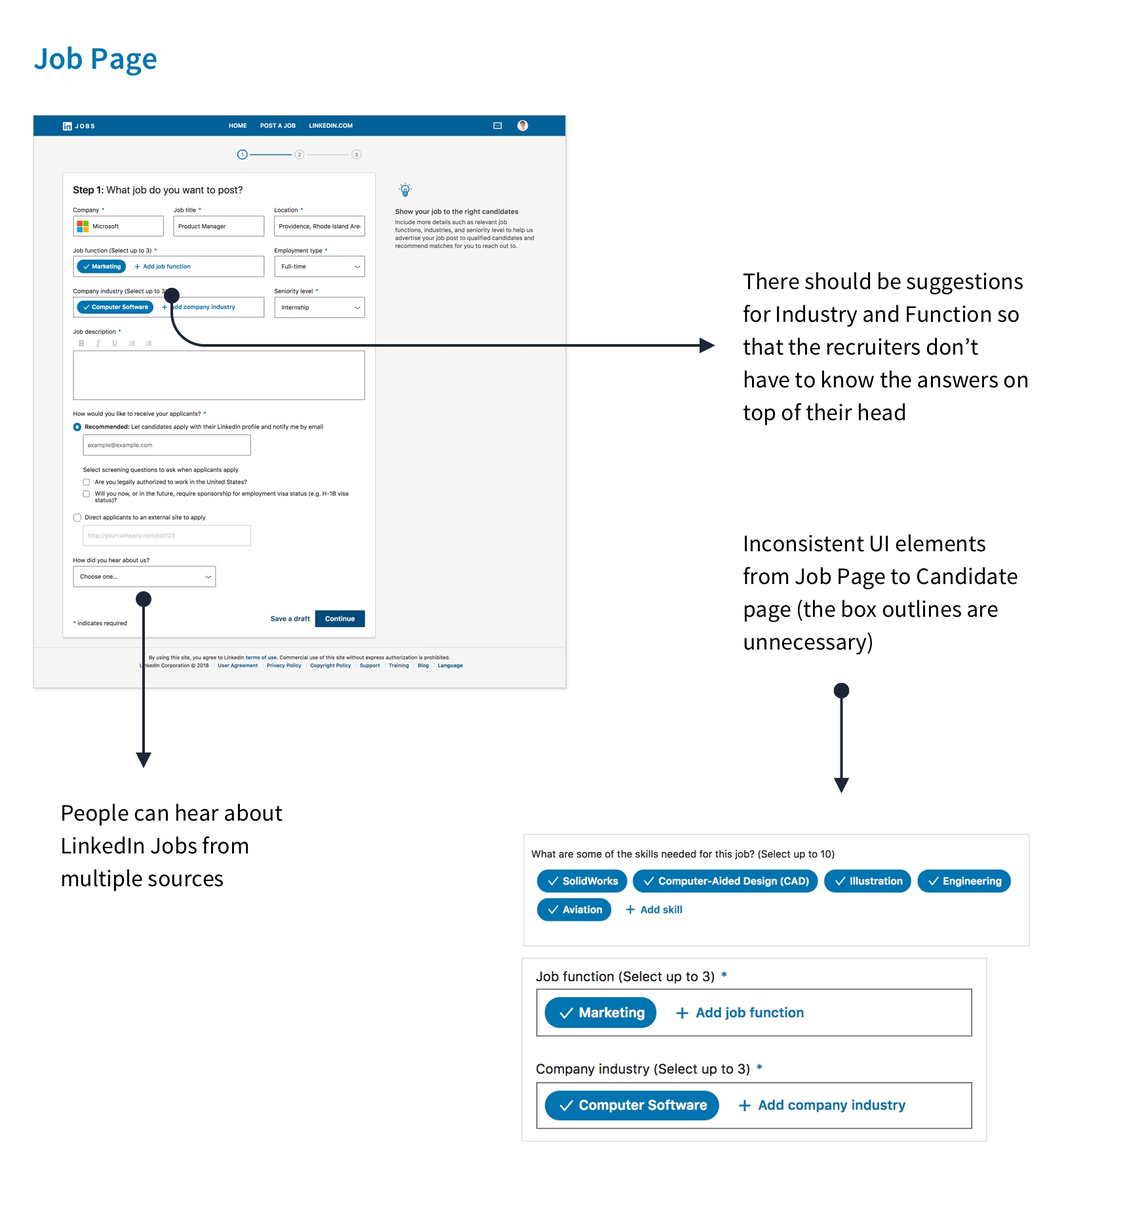
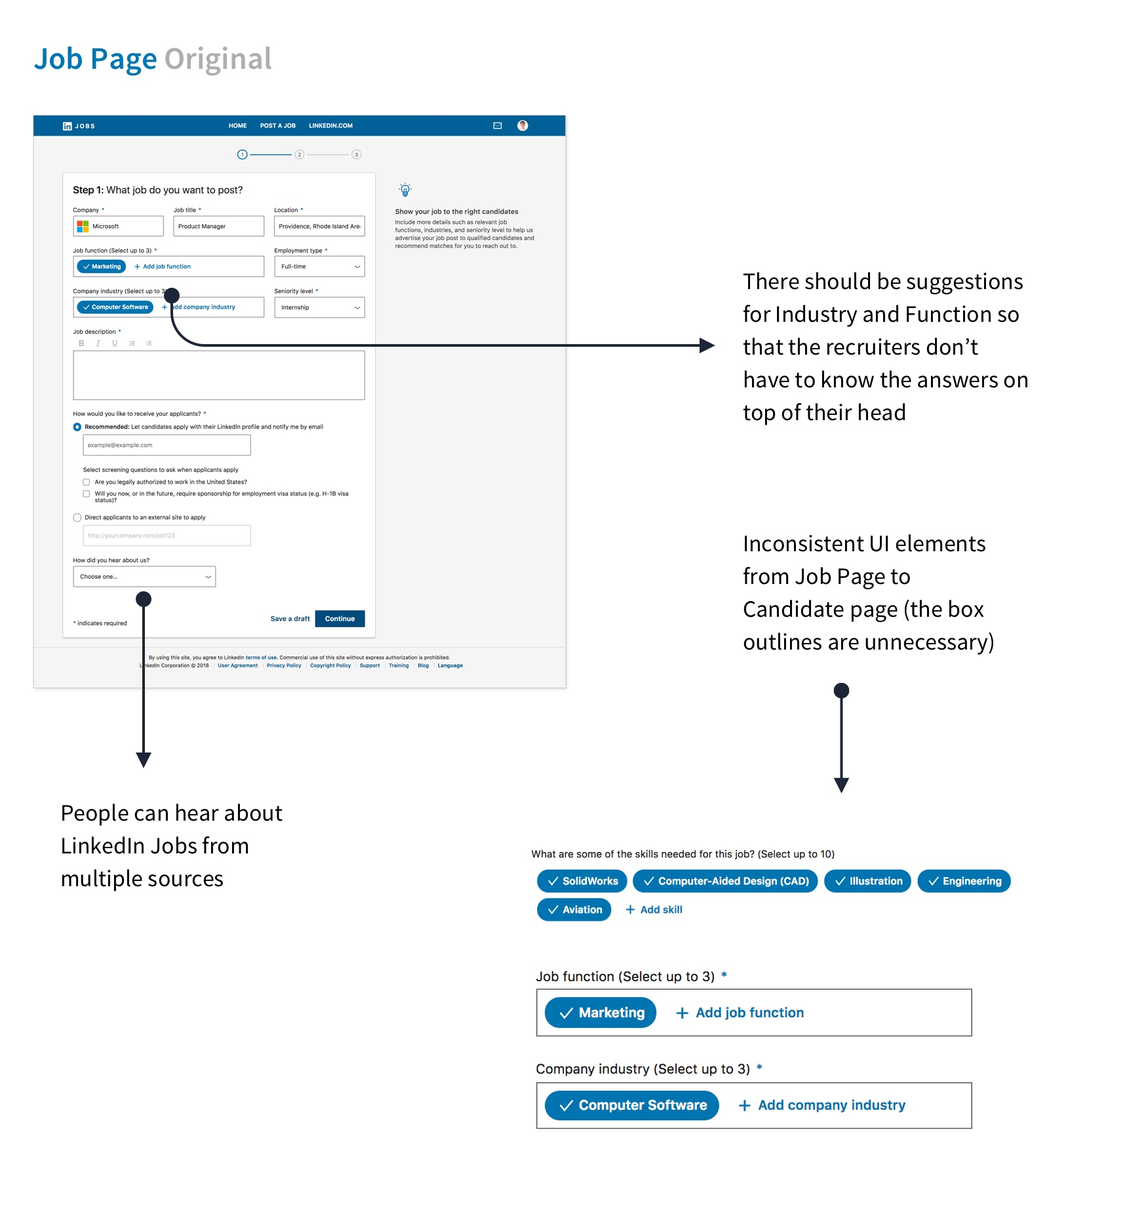
linkedindone

Changed region(s): [[0.6476, 0.4633, 0.8943, 0.525], [0.1542, 0.0309, 0.2467, 0.0618]]

diff --git a/linkedin.html b/linkedin.html
@@ -134,13 +134,13 @@
 
 	<p style="font-size: 20px; text-align: center;"><b>Goals</b> </p>
 
-	<p>Before diving into the research process, I spent some time setting goals I want to achieve in this one week design challenge: </p>
+	<p>Before diving into the research process, I spent some time setting out goals that I want to achieve in this one week design challenge: </p>
 
 	<ul>
 		<li>Understand the passive and active applicant’s thought process when it comes to job seeking  </li>
-		<li>Identify main competitors and how LinkedIn could leverage its existing features to differentiate itself from the market </li>
+		<li>Identify main competitors and how LinkedIn could leverage its existing features to differentiate itself from other job boards </li>
 		<li>Make the job posting experience more inclusive for smaller companies or new recruiters that don’t necessarily have much experience in recruiting</li>
-		<li>Update the UI of the job posting experience to match the current LinkedIn’s general interface </li>
+		<li>Update the UI of the job posting experience to match the current LinkedIn’s interface </li>
 		<li>Deliver a thoughtful and polished redesign for LinkedIn’s job posting experience </li>
 	</ul>
 
@@ -152,11 +152,9 @@
 	<p style="font-size: 20px; text-align: center;"><b>Online Research</b> </p>
 
 	
-	<p>For my first step, I want to break down the prompt to truly understand the end goal of this assignment. I did a walkthrough of the current job posting experience on LinkedIn and various job boards several times to have a grasp of what the experience is generally like. </p>
+	<p>For my first step, I did walkthroughs of the current job posting experience on LinkedIn and various job boards to have a grasp of what the experience is generally like. Understanding the target audience is essential for any design projects. In this case, even though the users for the redesign are recruiters, the target audience that we want to attract would be the candidates/job seekers. So in order to help the recruiters attract and recruit more relevant candidates, I want to understand what a potential candidate’s thought process wwould be like when they look for jobs.  </p>
 
-	<p>Understanding the target audience is essential for this redesign. In this case, even though the redesign users are recruiters, the target audience that we want to attract would be the candidates/job seekers. So in order to help the recruiters attract and recruit relevant candidates, I want to understand what a potential candidate’s thought process is like when they look for jobs.  </p>
-
-	<p>I started my research process with gathering information and statistics for recruiting from various sources. The most helpful sources for understanding recruiting and candidates are from LinkedIn itself. The four documents that I used are: </p>
+	<p>I started my research process with gathering information and statistics about recruiting from various sources. The most helpful sources for understanding recruiting methods and candidates are from LinkedIn themselves. The four documents that I came across were: </p>
 
 	<p>
 	<a href="https://business.linkedin.com/content/dam/business/talent-solutions/global/en_us/c/pdfs/Ultimate-List-of-Hiring-Stats-v02.04.pdf" target="_blank">The Ultimate Hiring Statistics </a><br>
@@ -165,16 +163,16 @@
 	<a href="https://business.linkedin.com/talent-solutions/recruitment-tool-reviews#all" target="_blank">Case studies from LinkedIn Talent Solutions</a>
 	</p>
 
-	<p>Through these documents, as well as various online sources, I had a glimpse into how recruiting can be done effectively, as well as the active job seeker’s thought process going through job boards. </p>
+	<p>Through these documents and various online sources, I had a glimpse into how recruiting can be done effectively, as well as a general idea of an active job seeker’s thought process. </p>
 
 	
 
 	
 	<p style="font-size: 20px; text-align: center;"><b>User Research Survey</b> </p>
 
-	<p> To further confirm my fingdings from online research, I wanted to get the answers to my questions from actual people I know around me. I sent out a survey to twenty people, anyone from students to active professionals in order to really learn how they approach the job seeking process.</p>
+	<p>To further confirm and expand my fingdings from online research, I wanted to get more information from actual people I know around me. I sent out a survey to twenty people, anyone from students to active professionals in order to really learn how they approach the job seeking process.</p>
 
-	<p>In the survey, I want to find out: </p>
+	<p>In the survey, I wanted to find out: </p>
 
 	<ul>
 		<li>What is the highest degree have you have achieved or actively pursuing? </li>
@@ -191,8 +189,7 @@
 	<p style="text-align: center;"> <a href="https://docs.google.com/forms/d/19A7sGAqdXbgJJhvU2VZ3gMujQYTi86iDTuAzaHfatJA/viewanalytics" target="_blank" >See all 20 survey responses here </a></p>
 
 
-
-	<p> I also tried to reach out to recruiters I have worked with to set up user interviews, but none had time to meet within a few days notice. However, I have already written out questions I want to ask if I could get in touch with a recruiter: </p>
+	<p> I also tried to reach out to recruiters I have worked with to set up user interviews, but none had time to meet within a few days notice. However, I have already written out questions I wanted to ask if I was able to get in touch with a recruiter: </p>
 
 	<ul>
 		<li>Have you ever posted a job on LinkedIn? </li>
@@ -205,7 +202,7 @@
 
 	</ul>
 
-	<p>So just by using the information I gathered from the research survey, as well as information I collected from online research, I approached affinity mapping in order to identify any pattern or potential areas we could explore. The breakdown and analysis of my finding will be shown below in the Information Synthesis section. </p>
+	<p>So just by using the information I gathered from the research survey and online research, I approached affinity mapping in order to identify any pattern or potential areas I could explore. The breakdown and analysis of my finding will be shown in the Information Synthesis section below. </p>
 
 
 	<p style="font-size: 20px; text-align: center;"><b>Usability Testing/Current Interface Analysis</b> </p>
@@ -217,7 +214,7 @@
 	</p>
 
 	<p> <b> Findings </b> <br> 
-		For the most part, the participants did not find it hard to navigate to LinkedIn Jobs since they could spot the “Post a Job” tab pretty easily. Overall, the job posting process was very straight forward, and the users did not encounter any big pain points. However, throughout usability tests, the participants and I were able to identify some minor problems with the current experience:
+		For the most part, the participants did not find it hard to navigate from LinkedIn homepage to LinkedIn Jobs since they could spot the “Post a Job” tab pretty easily. Overall, the job posting process was very straight forward, and the users did not encounter any big pain points. However, throughout usability tests, the participants and I were able to identify some areas that could be improved with the current experience:
 	</p>
 
 	<img src="images/linkedin/oglanding.jpg"> 
@@ -227,7 +224,7 @@
 
 	<p style="font-size: 20px; text-align: center;"><b>Competitive Analysis</b> </p>
 
-	<p> Based on my survey, I found out the most common alternative choice besides LinkedIn for job search is Glassdoor. When asked, the users said they liked Glassdoor because its job posts offer insights into the salary range submitted by other users, as well as ratings and reviews submitted by past employees. Because Glassdoor’s known as the main platform for current and former employees to submit anonymous reviews of their companies, Glassdoor could use the data collected to add an extra edge to their job posts. With this in mind, I was thinking about how LinkedIn could leverage its popular professional network into the job posts in order to recruit more relevant candidates. </p>
+	<p> Based on my survey, I found out the most common alternative choice besides LinkedIn for job search is Glassdoor. When asked, the users said they liked Glassdoor because its job posts offer insights into the salary range submitted by other users, as well as ratings and reviews submitted by past employees. Because Glassdoor’s known as the main platform for current and former employees to submit anonymous reviews of their companies, Glassdoor could use the data collected to add an edge to their job posts. With this in mind, I was thinking about how LinkedIn could leverage its popular professional network into the job posts in order to recruit more relevant candidates. </p>
 
 	<figure> <img src="images/linkedin/glassdoor.png"> 
 	<figcaption> Glassdoor uses user's reviews and insights to add an edge to their job posts  </figcaption> </figure>
@@ -239,12 +236,12 @@
 
 	<p style="font-size: 20px; text-align: center;" id="affinitymapping"><b>Information Synthesis</b> </p>
 
-	<p> I began the affinity mapping process in order to synthesize all of these information. Through affinity mapping, I want to be able to further narrow down to scope of this project and identify an opportunity area the redesign could benefit from. I broke down the information into these categories: </p>
+	<p> I began affinity mapping in order to synthesize all of the information I collected from the research process. Through affinity mapping, I want to be able to narrow down to scope of this project and identify an opportunity area the redesign could benefit from. I broke down the information into these categories: </p>
 	<ul>
 		<li>Jobs outreach </li>
-		<li>Interview Prep Information </li>
+		<li>Interview prep information </li>
 		<li>Job appeals </li>
-		<li>Likes/Dislikes of current LinkedIn </li>
+		<li>Likes/dislikes of LinkedIn for job search </li>
 		<li>Alternative platforms/competitors </li>
 	</ul>
 
@@ -252,26 +249,26 @@
 	<figure> <img src="images/linkedin/af1.jpg" style="width: 120%; margin-left: -100px; margin-right: -100px;"> 
 	<figcaption> I used affinity mapping to synthesize the information and identify any opportunity area</figcaption> </figure>
 
-	<p> Using information collected from online research, user survey, usability testing, and competitive analysis, I was able to get the answers to my original questions through affinity mapping. </p>
+	<!-- <p> Using information collected from online research, user survey, usability testing, and competitive analysis, I was able to get the answers to my original questions through affinity mapping. </p> -->
 
 	<p> <b> How do candidates hear about new opportunities? </b> <br> 
-		People who work in the same industry usually know each other, thus, by promoting and targeting candidates within that person’s network, the job post will be promoted to more relevant candidates. <br>
 		Referrals are the top source of quality hires, and is one of the most popular ways people discover new jobs.  <br>
-		Alumni network and school’s career portals also are also a popular choice.
+		People who work in the same industry usually know each other, thus, by promoting and targeting candidates within that person’s network, the job post will be promoted to more relevant candidates. <br>
+		Alumni network and school’s career portals are also popular choices.
 	</p> 
 
 	<p> <b> How do candidates get information for interviews? </b> <br> 
 		<img src="images/linkedin/survey1.png">
-		According to my survey, most people go to the company’s websites to learn information about the company. By adding a quick access link to the company’s website, it could be a faster and easier way for prospective candidates to learn about the company.
+		According to my survey, most people go to the company’s websites to learn information about the company. By adding a quick access link to the company’s website/career page, it could make it faster and easier for prospective candidates to learn about the company.
 	</p> 
 
 	<p> <b> What appeals to the candidates in a job post? </b> <br> 
 		<img src="images/linkedin/survey2.png">
-		Although company’s culture is ranked as the third most important appeal in my research, users have to scroll all the way down to spot the company’s profile in the current LinkedIn’s job post. By intergrating this information into job post, it could improve the recruiter's company brand image and attract more relevant candidates who relate to the company’s mission and culture. 
+		Although company’s culture is ranked as the third most important appeal in my survey, users have to scroll all the way down to spot the company’s profile in the current LinkedIn’s job post. By intergrating this information into job post, it could improve the recruiter's company brand image and attract more relevant candidates who relate to the company’s mission and culture. 
 	</p> 
 
-	<p> <b> What are the likes and dislikes of the current interface? </b> <br> 
-		Most people like how they could see who in their network is currently working at that company.   <br>
+	<p> <b> What are the likes and dislikes of LinkedIn? </b> <br> 
+		Most people like how they could see who in their professional/alumni network is currently working at in a particular company.   <br>
 		The most common dislike about applying for job through LinkedIn is the users do not know how to keep track of their applications. Another common dislike for LinkedIn is that it’s not great for smaller companies, startup, or studios since a lot of advertised and big companies come up first on the job board.
 	</p> 
 
@@ -290,16 +287,16 @@
 	<h1 class="postTitle" style=" color:#0077B5; padding-top: 30px; "> IDEATION </h1>
 
 
-	<p>I approached the ideating phrase knowing that I don’t need to do an end to end redesign since the current flow proved to be working really well already based on the usability tests. However, I think it would be beneficial to make tweaks to the current design and add features in order to achieve the goal of getting more relevant candidates through the job post.</p>
+	<p>I approached the ideating phrase knowing that I don’t need to do an end to end redesign since the current flow proved to be working really well. However, I think it would be beneficial to make tweaks to the current design and add features in order to achieve the goal of getting more relevant candidates through the job post.</p>
 
 	<img src="images/linkedin/sketchlp.jpg" style="width: 80%;">
-	<p>The LinkedIn Job’s landing page is the first impression the recruiter have with the experience. On the current design, once the recruiter comes on the page, the only elements that are visible are the Job Post box and a quote. As a result, it doesn’t encourage the recruiters to scroll down to see the rest of the page, even though the value props are located at the bottom of the page. Even if the recruiter reaches the bottom of the page, there’s not CTA that encourages the recruiters to post a job. With that said, in my redesign, I want to emphasized the UI aspect on the landing page. Through visual elements, I want to highlight LinkedIn Job’s effectiveness and create trust. </p>
+	<p>The LinkedIn Job’s landing page is the first impression the recruiter will have with the job posting experience. Once the recruiter comes on the page's current design, the only visible elements are the Job Post box and a quote. The current interface doesn’t queue the recruiters to scroll down to see the rest of the page, even though the value props are located at the bottom of the page. Even if the recruiter reaches the bottom of the page, there’s not CTA sign or button that encourages the recruiters to post a job. In my redesign, I want to emphasized the UI aspect on the landing page. Through visual elements, I want to highlight LinkedIn Job’s effectiveness and create trust. </p>
 
-	<p> During my ideating phrase, I noticed that there are different wording to the same word (i.e. responsibilities, essential duties, position purpose) on the job posts. That’s why I also explored the idea of separating job responsibilities, qualifications, and company’s information into different input boxes in order to create a more unified language. This way, the job seekers can process the information faster and easier. However, since the recruiters will probably have to copy and paste the same information to various job boards, separating this information will create a pain point that did not exist in the first place. Therefore, I did not move forward with this idea. </p>
+	<p> During my ideating phrase, I noticed that there are different wordings to the same word in the job posts (i.e. responsibilities, essential duties, position purpose). Because of variations, I explored the idea of separating job responsibilities, qualifications, and company’s information into different input boxes in order to create a more unified language. This way, the job seekers can process the information faster and easier when they go through a large amount of job posts. However, since the recruiters will probably have to copy and paste the same information to various job boards, separating this information into different sections will create a pain point that did not exist in the first place. Therefore, I did not move forward with this idea. </p>
 
 	<img src="images/linkedin/sketchflow.jpg" style="width: 80%;">
 
-	<p>The current job posting experience is pretty straight forward. However, the intention for separating the three steps is not clear enough for the users. Additionally, the Budget page and Payment page are separated from each other even though they share similar information. As a result, I reorganized all of the information into three categories: About the Job, About the Candidate, Budget and Payment. This way, the recruiters will have clearer idea of how the information is organized through out the experience. </p>
+	<p>The current job posting experience is pretty straight forward. However, the intention for separating the three steps is not clear enough for the users. Additionally, the Budget and Payment page are separated from each other even though they share similar information. As a result, I reorganized and labeled all of the information into three categories: About the Job, About the Candidate, Budget and Payment. This way, the recruiters will have clearer idea of how the information is being organized through out the experience. </p>
 
 	
 
@@ -309,13 +306,13 @@
 
 
 	<p>
-	Because recruiting is more effective when there’s a personal aspect, I made the copy of the job posting experience more conversational, queuing the recruiters to have their copy the same way (i.e. “What job do you want to post?” to “Tell us about the job”). I also included a Review page as two out of three participants for my usability tests mentioned they want to review all of the information before purchasing the job post.  </p>
+	Because recruiting is more effective when there’s a personal aspect, I made the copy of the job posting experience more conversational, queuing the recruiters to make their copy the same way (i.e. changing “What job do you want to post?” to “Tell us about the job”). I also included a Review page as two out of three participants for my usability tests mentioned they want to review all of the information before purchasing the job post.  </p>
 
-	<p>One of the key features of the redesign is how to utilize LinkedIn’s professional network in order differentiate itself from other job boards. According to LinkedIn’s Hiring Statistics "companies can expand their talent pool by 10x by recruiting through their employees’ networks”, and referrals are a top source of quality hires. Additionally, the user survey research informed me that LinkedIn is not great for smaller companies, startups, and studios. The reason for this is because a lot of big companies could pay for advertisement to put their job posts on top. As a result, I came up with a feature that could ask people in your network to give out referrals indirectly. </p>
+	<p>One of the main goals of the redesign is thinking about how to utilize LinkedIn’s professional network in order differentiate itself from other job boards. According to <a href="https://business.linkedin.com/content/dam/business/talent-solutions/global/en_us/c/pdfs/Ultimate-List-of-Hiring-Stats-v02.04.pdf" target="_blank">LinkedIn’s Hiring Statistics</a>: "companies can expand their talent pool by 10x by recruiting through their employees’ networks”, and referrals are the top source of quality hires. Additionally, the user survey research informed me that LinkedIn is not great for smaller companies, startups, and studios. The reason for this is because a lot of big companies could pay for advertisement to put their job posts on top. As a result, I came up with a feature that could ask people in your network to give out unofficial referrals without actually having to ask them. </p>
 
 	<img src="images/linkedin/sketchcandidate.jpg" id="verticalIMG">
 
-	<p>On the About the Candidate page, the recruiters can promote the job post to a target connection’s network. This feature will give the recruiters suggestions of whose network to target, and the suggestions is based on people in the recruiter's network that has the same title as the job post. And since people who work in the same industry usually know each other, by promoting and targeting candidates within that person’s network, the job post will reach to a more relevant pool of candidates. </p>
+	<p>On the About the Candidate page, the recruiters can promote the job post to their connection’s network. This feature will give the recruiters suggestions of whose network to target, and the suggestions will be based on people in the recruiter's network that has the same title as the job post. And since people who work in the same industry usually know each other, by promoting and targeting candidates within that person’s network, the job post will reach to a more relevant pool of candidates. </p>
 
 	</div>
 
@@ -329,8 +326,6 @@
 
 	<p> Without further ado, below is my take on the improved design of LinkedIn's job posting experience. </p>
 
-	<p style="font-size: 25px; text-align: center;"> <b> <a href="https://invis.io/J8OXSIQBK6R" target="_blank">Try out the interactive InVision prototype here </a> </b></p>
-
 	<figure>
 	<img src="images/linkedin/screenonly.gif" style="width: 80%; box-shadow: 2px 2px 10px #ededed;">
 	<figcaption> Landing Page animation  </figcaption> </figure>
@@ -342,7 +337,7 @@
 	<a style="width: 120%; margin-left: -100px; margin-right: -100px;"> <iframe src="https://player.vimeo.com/video/298904709" width="1000" height="548.43" frameborder="0" webkitallowfullscreen mozallowfullscreen allowfullscreen></iframe> </a>
 	<p style="font-size: 20px; text-align: center; padding-top: 30px;"><b>Redesign Breakdown</b> </p> 
 
-	<p> For the redesign breakdown, I want to use a persona in order to justify my design decisions. The persona is formed based on the findings from the affinity mapping process. Meet Aaron! </p>
+	<p> For the redesign breakdown, I want to use a persona to justify my design decisions better. The persona's qualities are formed based on the findings from the affinity mapping process. Meet Aaron! </p>
 
 	<img src="images/linkedin/persona.png" style="width: 80%;"> 
 
@@ -361,11 +356,13 @@
 
 	<figure> 
 	<img src="images/linkedin/walkthrough.jpg" style="width: 120%; margin-left: -100px; margin-right: -100px;">  
-	<figcaption> Screens user flow  </figcaption> </figure>
+	<figcaption> User flow  </figcaption> </figure>
 
 
 	<figure> <img src="images/linkedin/styleguide.jpg" style="width:80%;"> 
 	<figcaption> Style guide  </figcaption> </figure>
+
+	<p style="font-size: 25px; text-align: center; padding-top: 30px;"> <b> <a href="https://invis.io/J8OXSIQBK6R" target="_blank">Try out the interactive InVision prototype here </a> </b></p>
 
 	</div> <!--design-->
 
@@ -377,7 +374,9 @@
 
 	<h1 class="postTitle" style=" color:#0077B5; padding-top: 30px; "> CONCLUSION </h1>
 
-	<p>I was very worried when I first got this assignment for several reasons. Although I’m a frequent user of LinkedIn, I am not familiar at all with the recruiting or job posting process. Additionally, I don’t know many recruiters or hiring managers who could help with my user research interviews. But as I approached the research part of my process, I found a lot of resources and information that I could use to bypass the lack of direct user research for recruiters. </p>
+	<p>I was very worried when I first got this assignment for several reasons. Although I’m a frequent LinkedIn user, I am completely not familiar with the recruiting or job posting tools offered through LinkedIn. Additionally, I don’t know many recruiters or hiring managers who could help with my user research interviews. But as I approached the research part of my process, I found a lot of resources and information that I could use to bypass the lack of direct user research for recruiters. </p>
+
+	<p> Due to the time constraint of the exercise, I have decided not to do usability testing for the redesign. However, moving forward, I would want to test it and find out if there are any accessibility issues with the redesign. </p> 
 
 	<p>Although I received an email from Indeed with the note "your employer account has been disabled”, I had so much fun throughout this process I thought it was worth it.</p>
 
